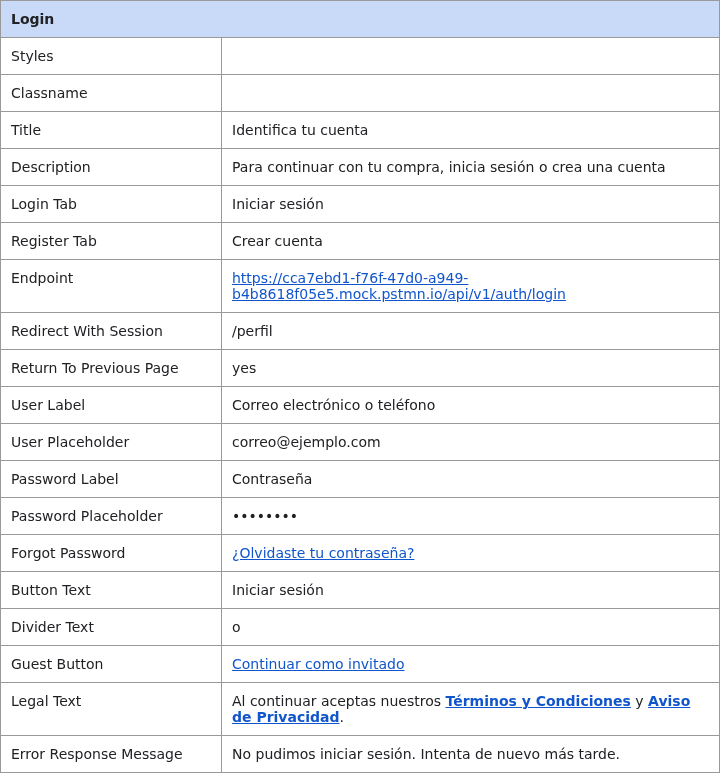
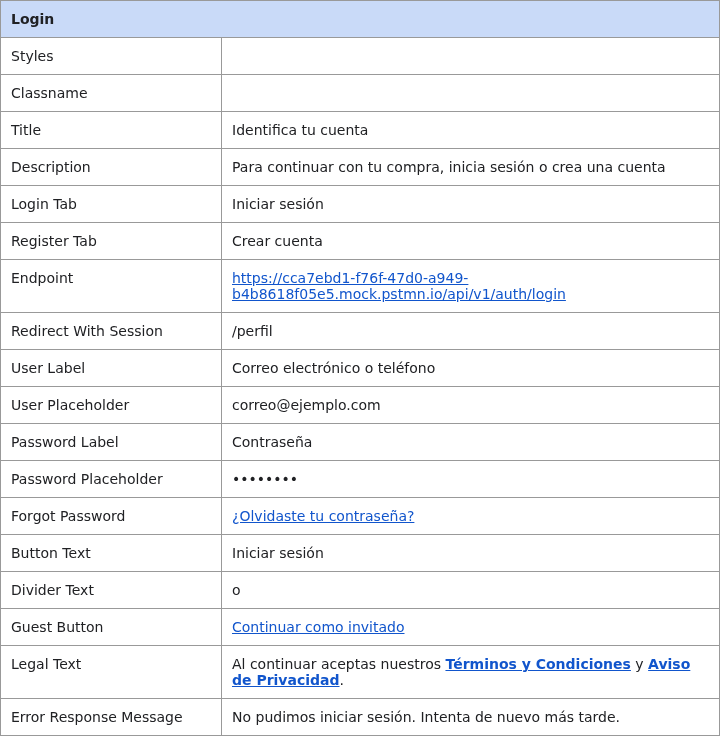
refactor(session): nothing in the URL (no ?redirect=)
Protected pages go to their Metadata "Redirect With Session" path as
authored, or to the home page (/) when the row is missing or empty.
Removed REDIRECT_PARAM and getReturnPath(); the login drops Return To
Previous Page and always goes to its own Redirect With Session (guest: its
link; no row: step mode); the example login link is used as authored.
login.docx, READMEs and guide 08 updated.

Changed region(s): [[0.0, 0.0, 1.0, 1.0], [0.0306, 0.9375, 0.2444, 1.0]]

diff --git a/blocks/login/login.js b/blocks/login/login.js
@@ -6,7 +6,7 @@
  * table (page /login).
  *
  * Authored rows (all optional): Styles, Classname, Session, Title, Description, Login Tab,
- * Register Tab, Endpoint, Redirect With Session, Return To Previous Page, User Label,
+ * Register Tab, Endpoint, Redirect With Session, User Label,
  * User Placeholder, Password Label, Password Placeholder, Forgot Password (link), Button Text,
  * Divider Text, Guest Button (text, optional link), Legal Text (text with links),
  * Error Response Message.
@@ -23,10 +23,9 @@
  *     only to signed-out visitors (Session signed-out, unless the table has its own Session
  *     row) and hides itself after a login or "Continuar como invitado": the step is done
  *     (SESSION_CHANGE_EVENT, for the checkout steps).
- *   - Return To Previous Page: yes → a valid ?redirect= of the URL wins over Redirect With
- *     Session (pages that sent the visitor here come back). Without it ?redirect= is ignored.
- *   - Guest Button: continueAsGuest(), then ?redirect= (with Return To Previous Page), then its
- *     link; without any of them it stays (step mode). Without link it is a button.
+ *   - Guest Button: continueAsGuest(), then its link; without link it stays (step mode: the
+ *     step is done) and is painted as a button.
+ *   Nothing is read from or added to the URL.
  *   - Error Response Message: shown when the service fails without a message of its own
  *     (default errorResponseMessage of scripts/foundations/messages.js, also when empty).
  *
@@ -67,7 +66,7 @@ import applyBlockOptions from '../../scripts/foundations/block-options.js';
 import { readTableCell, getSafeHref } from '../../scripts/foundations/block-utils.js';
 import MESSAGES from '../../scripts/foundations/messages.js';
 import {
-  SESSION_STATES, continueAsGuest, getAccessState, getReturnPath, isEditorPreview, navigateTo,
+  SESSION_STATES, continueAsGuest, getAccessState, isEditorPreview, navigateTo,
   setSessionVisibility, signIn, toSitePath,
 } from '../../scripts/foundations/session.js';
 import { post, REQUEST_TYPE } from '../../scripts/api/http-client.js';
@@ -91,8 +90,6 @@ const SEND_FORM_CREDENTIALS = false;
 const FIXED_CREDENTIALS = { emailOrPhone: 'cliente@ejemplo.com', password: 'Password123' };
 // form fields, named as the service names them (errors[].field)
 const FORM_FIELDS = ['emailOrPhone', 'password'];
-// values of Return To Previous Page that mean "yes"
-const YES_VALUE = /^(yes|si|sí|true)$/i;
 
 // accessible names when the table has no label (only read by screen readers)
 const LABELS = {
@@ -161,7 +158,6 @@ function readLoginSettings(block) {
     endpoint: endpointCell.href || endpointCell.text,
     // '' = step mode (no redirect)
     redirectWithSession: toSitePath(redirectCell.href || redirectCell.text),
-    returnToPreviousPage: YES_VALUE.test(readCellText('return to previous page')),
     errorResponseMessage: readCellText('error response message') || MESSAGES.errorResponseMessage,
     legalCell: findValueCell(block, 'legal text'),
   };
@@ -373,24 +369,23 @@ function readLoginErrors(error, fallbackMessage) {
 }
 
 /**
- * Where a signed-in visitor goes: the valid ?redirect= (only with Return To Previous Page),
- * else Redirect With Session; '' = step mode (stay, the block hides itself).
+ * Where a signed-in visitor goes: Redirect With Session; '' = step mode (stay, the block hides
+ * itself).
  * @param {Object} settings readLoginSettings() result
  * @returns {string}
  */
 function getLoginDestination(settings) {
-  return (settings.returnToPreviousPage && getReturnPath()) || settings.redirectWithSession;
+  return settings.redirectWithSession;
 }
 
 /**
- * Where a guest goes: the valid ?redirect= (only with Return To Previous Page), else the link
- * of Guest Button; '' = stay (step mode). Redirect With Session is not used: it is for
- * visitors with a session.
+ * Where a guest goes: the link of Guest Button; '' = stay (step mode). Redirect With Session is
+ * not used: it is for visitors with a session.
  * @param {Object} settings readLoginSettings() result
  * @returns {string}
  */
 function getGuestDestination(settings) {
-  return (settings.returnToPreviousPage && getReturnPath()) || toSitePath(settings.guest.href);
+  return toSitePath(settings.guest.href);
 }
 
 /**

diff --git a/scripts/foundations/session.js b/scripts/foundations/session.js
@@ -25,8 +25,8 @@
  *   | Redirect With Session | /login |   where a visitor without session goes (default: home /)
  *   guardPage()               reads both rows; called by scripts.js before painting
  *   requireSession(options)   the same rule for a block that must redirect by itself
- *   getSessionRedirectUrl()   /login?redirect=%2Fcurrent-page
- *   getReturnPath()           the ?redirect= of the URL, only if it is a path of this site
+ *   getSessionRedirectUrl()   the Redirect With Session path as authored, or / (nothing is
+ *                             added to the URL)
  *   navigateTo(path)          goes to a page (use it after signIn/continueAsGuest: the page
  *                             does not reload over the navigation)
  *
@@ -68,8 +68,6 @@ export const PAGE_SESSION_REQUIRED = 'true';
 // where a protected page sends a visitor without session, when its Metadata has no
 // "Redirect With Session" row: the home page
 export const DEFAULT_SESSION_REDIRECT = '/';
-// URL parameter with the page to come back to (/login?redirect=/perfil)
-export const REDIRECT_PARAM = 'redirect';
 // editing tool preview: no redirects, everything visible
 const EDITOR_PREVIEW_HOSTS = /^preview-aemcoder\.adobe\.io$/;
 // class on <html> for each state (sessions.css); editor = show everything
@@ -272,30 +270,16 @@ export function toSitePath(path) {
 }
 
 /**
- * The page to come back to (?redirect= of the URL), only when it is a path of this site.
- * @returns {string} '' when there is none or it is not valid
- */
-export function getReturnPath() {
-  return toSitePath(new URLSearchParams(window.location.search).get(REDIRECT_PARAM));
-}
-
-/**
  * Where to send who cannot open the current page: redirectTo, else the "Redirect With Session"
- * Metadata row, with ?redirect= set to the page to come back to (the login uses it). Without
- * any of them: DEFAULT_SESSION_REDIRECT, the home page, as is.
+ * Metadata row (a path of this site, as authored: nothing is added to the URL). Missing or
+ * empty: DEFAULT_SESSION_REDIRECT, the home page.
  * @param {Object} [options]
  * @param {string} [options.redirectTo] Page to go to (a block that redirects by itself)
- * @param {string} [options.returnTo] Page to come back to (default: the current one)
- * @returns {string} e.g. /login?redirect=%2Fperfil, or /
+ * @returns {string} e.g. /login, or /
  */
-export function getSessionRedirectUrl({ redirectTo, returnTo } = {}) {
-  const configured = toSitePath(redirectTo) || toSitePath(readPageMetadata('redirect-with-session'));
-  if (!configured) return DEFAULT_SESSION_REDIRECT;
-  const current = `${window.location.pathname}${window.location.search}${window.location.hash}`;
-  const target = new URL(configured, window.location.origin);
-  const back = toSitePath(returnTo ?? current);
-  if (back) target.searchParams.set(REDIRECT_PARAM, back);
-  return `${target.pathname}${target.search}`;
+export function getSessionRedirectUrl({ redirectTo } = {}) {
+  return toSitePath(redirectTo) || toSitePath(readPageMetadata('redirect-with-session'))
+    || DEFAULT_SESSION_REDIRECT;
 }
 
 /**

diff --git a/blocks/block-session-example/block-session-example.js b/blocks/block-session-example/block-session-example.js
@@ -13,7 +13,7 @@
  *   3. Items by session, the generic way of ANY block: "Item | text | signed-in" (the state in
  *      the LAST cell). applySessionRows() (block-options.js) removes the rows of other states
  *      before this block reads its table, and the page reloads when the session changes.
- *   4. Actions: Iniciar sesión (link to the login with ?redirect= back here), Continuar como
+ *   4. Actions: Iniciar sesión (link to the login, as authored), Continuar como
  *      invitado (continueAsGuest) and Cerrar sesión (signOut), each one only for its state.
  *   5. Private call: with Private Endpoint and a session, post(…, REQUEST_TYPE.PRIVATE) sends
  *      the Bearer token and shows the answer of the service.
@@ -44,7 +44,7 @@ import applyBlockOptions from '../../scripts/foundations/block-options.js';
 import { readTableCell } from '../../scripts/foundations/block-utils.js';
 import MESSAGES from '../../scripts/foundations/messages.js';
 import {
-  REDIRECT_PARAM, SESSION_STATES, continueAsGuest, parseSessionStates, renderForSession,
+  SESSION_STATES, continueAsGuest, parseSessionStates, renderForSession,
   setSessionVisibility, signOut, toSitePath,
 } from '../../scripts/foundations/session.js';
 import { post, REQUEST_TYPE } from '../../scripts/api/http-client.js';
@@ -124,17 +124,6 @@ function readExampleSettings(block) {
 }
 
 /**
- * Link to the login that comes back to this page after signing in (?redirect=).
- * @param {string} loginPath e.g. /login
- * @returns {string}
- */
-function buildLoginHref(loginPath) {
-  const url = new URL(loginPath, window.location.origin);
-  url.searchParams.set(REDIRECT_PARAM, `${window.location.pathname}${window.location.search}`);
-  return `${url.pathname}${url.search}`;
-}
-
-/**
  * Badge with the name of a state (its colour comes from the CSS modifier).
  * @param {string} state One of SESSION_STATES
  * @returns {Element}
@@ -170,7 +159,7 @@ function buildExampleActions(settings) {
 
   if (login.text && login.href) {
     const link = createElementWithClass('a', 'block-session-example-button block-session-example-button-primary', login.text);
-    link.href = buildLoginHref(login.href);
+    link.href = login.href;
     actions.append(setSessionVisibility(link, [SESSION_STATES.SIGNED_OUT]));
   }
   if (texts.guestButton) {

diff --git a/blocks/login/README.md b/blocks/login/README.md
@@ -160,15 +160,14 @@ se pinta (en `Redirect With Session`, vacía = modo paso).
       `https://cca7ebd1-f76f-47d0-a949-b4b8618f05e5.mock.pstmn.io/api/v1/auth/login`
     - **Por defecto:** ninguno. Sin `Endpoint`, el botón no envía nada
 
-7. **`Redirect With Session`** / **`Return To Previous Page`**
-    - **Tipo:** Ruta del sitio (`/perfil`) / `yes`
+7. **`Redirect With Session`**
+    - **Tipo:** Ruta del sitio (`/perfil`)
     - **Descripción:** **Con ruta:** siempre que haya sesión va ahí, sin mostrar el formulario (al
       abrir la página ya con sesión o justo después de iniciar sesión). **Vacía o sin la fila: modo
       paso**: no redirige; el login solo se ve sin sesión y, al iniciar sesión o entrar como
-      invitado, se oculta solo y el paso queda cumplido (para los pasos de compra).
-      `Return To Previous Page` = `yes`: si la URL trae `?redirect=` de una página del sitio, regresa
-      ahí antes que a `Redirect With Session`
-    - **Por defecto:** ninguno (modo paso) / sin la fila se ignora `?redirect=`
+      invitado, se oculta solo y el paso queda cumplido (para los pasos de compra). No se lee ni se
+      agrega nada en la URL
+    - **Por defecto:** ninguno (modo paso)
     - El `nextStep.route` del servicio ya no decide a dónde ir: lo decide la tabla
 
 8. **`User Label`** / **`User Placeholder`**
@@ -202,8 +201,8 @@ se pinta (en `Redirect With Session`, vacía = modo paso).
 13. **`Guest Button`**
     - **Tipo:** Texto, con enlace opcional
     - **Descripción:** "Continuar como invitado": activa el modo invitado (`continueAsGuest()`) y
-      luego va al `?redirect=` (con `Return To Previous Page`) o a su enlace. Sin ninguno de los dos
-      se queda (modo paso: el paso queda cumplido). Sin enlace se pinta como botón
+      luego va a su enlace. Sin enlace se queda (modo paso: el paso queda cumplido) y se pinta como
+      botón
     - **Por defecto:** ninguno. Sin texto, no se pinta
 
 14. **`Legal Text`**
@@ -226,8 +225,8 @@ La tabla en Drive permite al autor configurar:
 - El **título**, la **descripción** y los **tabs**
 - Las **etiquetas** y **textos de ejemplo** de los campos
 - Los **enlaces** de contraseña olvidada, invitado y textos legales
-- El **Endpoint** del servicio, a dónde ir con sesión (**Redirect With Session**,
-  **Return To Previous Page**) y el **mensaje de error** genérico
+- El **Endpoint** del servicio, a dónde ir con sesión (**Redirect With Session**) y el **mensaje
+  de error** genérico
 - **Estilos** y **clases** extra del bloque
 
 ![Vista Tabla en Drive](/documentation/readme/login/drive-table.png)
@@ -263,7 +262,7 @@ Con `true`, `readLoginCredentials` toma `emailOrPhone` (sin espacios al inicio y
 
 | Respuesta | Qué hace el bloque |
 |---|---|
-| **200** `{ status, data: { user, accessToken, tokenType, expiresIn, sessionId, nextStep } }` | Guarda la sesión (`signIn`); con `Redirect With Session` muestra `status.message` en verde y va al `?redirect=` (si `Return To Previous Page`) o a esa ruta. En modo paso no navega: el login se oculta |
+| **200** `{ status, data: { user, accessToken, tokenType, expiresIn, sessionId, nextStep } }` | Guarda la sesión (`signIn`); con `Redirect With Session` muestra `status.message` en verde y va a esa ruta. En modo paso no navega: el login se oculta |
 | **400** `{ status, errors: [{ field, message }] }` | `status.message` arriba y cada `errors[].message` debajo de su campo (`emailOrPhone`, `password`); al escribir en el campo se quita su mensaje |
 | **401** `{ status, errors: [{ field: "credentials", message }] }` | `status.message` + los mensajes sin campo, arriba ("El correo/teléfono o la contraseña son incorrectos. Verifica tus datos e inténtalo nuevamente.") |
 | **500** `{ status }` | `status.message` arriba ("Ocurrió un error al iniciar sesión.") |
@@ -285,7 +284,6 @@ renovar el token.
 | Error del servicio | El mensaje sale arriba y el cursor va al primer campo con error |
 | Sin `Endpoint` | El botón no envía nada |
 | Abre la página ya con sesión (con `Redirect With Session`) | Va directo a esa ruta, sin ver el formulario |
-| `?redirect=/perfil` en la URL y `Return To Previous Page: yes` | Después de iniciar sesión regresa a `/perfil` (solo rutas del sitio; `//otro.com` se ignora) |
 | Modo paso (sin `Redirect With Session`) | Sin sesión se ve el login; con sesión o como invitado se oculta y el paso queda cumplido, sin recargar |
 | Panel de edición | Se ve el formulario y no redirige, para poder editarlo |
 | Falta `Login Tab` o `Register Tab` | Sin tabs, solo el formulario |
@@ -313,7 +311,7 @@ Móvil:
 - `scripts/foundations/block-options.js` – Filas `Styles` y `Classname`
 - `scripts/foundations/block-utils.js` – `readTableCell` y `getSafeHref`
 - `scripts/foundations/messages.js` – `errorResponseMessage` por defecto
-- `scripts/foundations/session.js` – `signIn`, `continueAsGuest`, `getReturnPath`, `toSitePath` y
+- `scripts/foundations/session.js` – `signIn`, `continueAsGuest`, `navigateTo`, `toSitePath` y
   `setSessionVisibility` (modo paso)
 - `styles/foundations/sessions.css` – Oculta el login en modo paso cuando ya hay sesión
 - `scripts/api/http-client.js` – `post` con `REQUEST_TYPE.PUBLIC`

diff --git a/documentation/08-sesiones.md b/documentation/08-sesiones.md
@@ -62,7 +62,7 @@ Se pueden combinar con coma: `signed-in, guest` = con sesión **o** invitado. Va
 
 | `Session` | `Redirect With Session` | Sin sesión | Con sesión |
 |---|---|---|---|
-| `true` | `/login` | Va a `/login?redirect=%2Fperfil` (el login regresa aquí) | Se ve |
+| `true` | `/login` | Va a `/login`, tal cual (nada se agrega a la URL) | Se ve |
 | `true` | sin la fila o vacía | Va al home `/` | Se ve |
 | `false`, vacía o sin la fila | — | Se ve (página pública) | Se ve |
 
@@ -143,7 +143,6 @@ O sin JS, directo con clases:
 |---|---|---|
 | `Redirect With Session` | `/perfil` | Con sesión, siempre va ahí (sin mostrar el formulario) |
 | | vacía o sin la fila | **Modo paso**: no redirige; el login solo se ve sin sesión y se oculta al iniciar sesión o entrar como invitado |
-| `Return To Previous Page` | `yes` | Un `?redirect=` válido gana a `Redirect With Session` |
 
 Cada página tiene su propia tabla Login: en `/login` va `Redirect With Session` = `/perfil`; en el
 paso **Datos** de la compra va sin esa fila, y el login solo se oculta.
@@ -157,7 +156,7 @@ paso **Datos** de la compra va sin esa fila, y el login solo se oculta.
 | 1 | `getSession()` / `isSignedIn()` / `getAccessToken()` | Usuario, ¿hay sesión?, `'Bearer …'` |
 | 2 | `guardPage()` | Regla de la página (la llama `scripts.js`) |
 | 2 | `requireSession({ allowGuest, redirectTo })` | Un bloque que debe redirigir por sí mismo |
-| 2 | `getSessionRedirectUrl()` / `getReturnPath()` / `toSitePath()` | URLs de redirección validadas (solo rutas del sitio) |
+| 2 | `getSessionRedirectUrl()` / `toSitePath()` | Ruta de `Redirect With Session` (o `/`) y rutas validadas (solo del sitio) |
 | 2 | `navigateTo(path, { replace })` | Ir a otra página sin que la recarga de las filas la cancele |
 | 3 | `applySessionRows(block)` | Filas con el estado en la última celda (la llama `applyBlockOptions`) |
 | 3 | `setSessionVisibility(el, states)` / `parseSessionStates(text)` | Mostrar u ocultar |
@@ -168,7 +167,7 @@ paso **Datos** de la compra va sin esa fila, y el login solo se oculta.
 | # | Caso | Resultado |
 |---|---|---|
 | 1 | Página pública sin reglas | Igual que antes |
-| 2 | `/perfil` (`Session: true`, `Redirect With Session: /login`) sin sesión | Va a `/login?redirect=%2Fperfil` |
+| 2 | `/perfil` (`Session: true`, `Redirect With Session: /login`) sin sesión | Va a `/login` (sin `?redirect=`) |
 | 2b | `Session: true` sin `Redirect With Session` | Va al home `/` |
 | 2c | `Session: false`, vacía o sin la fila | La página se ve |
 | 3 | Login correcto desde ahí | Regresa a `/perfil` |
@@ -179,7 +178,7 @@ paso **Datos** de la compra va sin esa fila, y el login solo se oculta.
 | 7 | Cerrar sesión en una página `Session: true` | Redirige |
 | 8 | `/login` ya con sesión | Va a `Redirect With Session` sin mostrar el formulario |
 | 9 | Login en modo paso | Al iniciar sesión o como invitado se oculta y aparece lo `signed-in, guest`, sin recargar |
-| 10 | `?redirect=//otro.com` | Se ignora |
+| 10 | `Redirect With Session` = `//otro.com` o `javascript:` | Se ignora: va al home |
 | 11 | Sesión vencida | Cuenta como `signed-out` |
 | 12 | Llamada privada sin sesión | No llama al servicio y redirige al login |
 | 13 | Llamada privada con sesión | Header `Authorization: Bearer …` y `security.auth.value` iguales |
@@ -190,8 +189,8 @@ paso **Datos** de la compra va sin esa fila, y el login solo se oculta.
 - **Ocultar no es proteger.** El HTML y el JavaScript son públicos: lo oculto sigue en la página.
   Los datos privados solo deben llegar del servicio con `REQUEST_TYPE.PRIVATE`.
 - El token **nunca** va en el código ni en Drive: sale de `getAccessToken()` después del login.
-- `?redirect=` y las rutas de la tabla solo aceptan **rutas del sitio** (nada de `//otro.com` ni
-  `javascript:`).
+- Nada viaja por la URL. Las rutas de las tablas solo aceptan **rutas del sitio** (nada de
+  `//otro.com` ni `javascript:`).
 - La sesión vive en `sessionStorage` (se borra al cerrar la pestaña) y vence con `expiresIn`.
 - Nunca se escribe la sesión en `console`.
 

diff --git a/scripts/foundations/README.md b/scripts/foundations/README.md
@@ -10,7 +10,7 @@ a otro sitio de AEM Edge Delivery Services. Son el par de `styles/foundations/` 
 | `messages.js` | Mensajes genéricos con valor por defecto (alerta, lista vacía, foto que falla) y el formato de números / precios | `MESSAGES` (default), `LOCALE`, `CURRENCY` |
 | `toast.js` | Alerta flotante arriba a la derecha, apilable, que se cierra sola | `showToast(message, { duration, variant })`, `TOAST_VARIANTS` |
 | `page-context.js` | Datos que un bloque obtiene al cargar y otro bloque de la misma página necesita, sin importarse entre ellos (hoy: el nombre de la página actual) | `setCurrentPageName(name)`, `getCurrentPageName()`, `CURRENT_PAGE_NAME_EVENT` |
-| `session.js` | **Todo lo de sesión**, en 3 partes: 1) datos (sesión, invitado, estado en `<html>`); 2) páginas que piden sesión (Metadata `Session: true` y `Redirect With Session`, por defecto el home) y redirecciones; 3) mostrar u ocultar y pintar según la sesión. Va con `styles/foundations/sessions.css`. Guía: `documentation/08-sesiones.md` | Parte 1: `signIn`, `continueAsGuest`, `signOut`, `getSession`, `isSignedIn`, `getAccessToken`, `getAccessState`, `SESSION_STATES`, `SESSION_CHANGE_EVENT` · Parte 2: `guardPage`, `requireSession`, `getSessionRedirectUrl`, `getReturnPath`, `toSitePath`, `navigateTo`, `isEditorPreview` · Parte 3: `applySessionRows` (filas con el estado en la última celda), `setSessionVisibility`, `parseSessionStates`, `renderForSession` |
+| `session.js` | **Todo lo de sesión**, en 3 partes: 1) datos (sesión, invitado, estado en `<html>`); 2) páginas que piden sesión (Metadata `Session: true` y `Redirect With Session`, por defecto el home) y redirecciones; 3) mostrar u ocultar y pintar según la sesión. Va con `styles/foundations/sessions.css`. Guía: `documentation/08-sesiones.md` | Parte 1: `signIn`, `continueAsGuest`, `signOut`, `getSession`, `isSignedIn`, `getAccessToken`, `getAccessState`, `SESSION_STATES`, `SESSION_CHANGE_EVENT` · Parte 2: `guardPage`, `requireSession`, `getSessionRedirectUrl`, `toSitePath`, `navigateTo`, `isEditorPreview` · Parte 3: `applySessionRows` (filas con el estado en la última celda), `setSessionVisibility`, `parseSessionStates`, `renderForSession` |
 
 ## Qué necesita cada uno
 

diff --git a/blocks/block-session-example/README.md b/blocks/block-session-example/README.md
@@ -130,8 +130,8 @@ contenido no tienen texto por defecto: sin texto, esa parte no se pinta.
 
 6. **`Login Link`**
     - **Tipo:** Enlace (texto y link)
-    - **Descripción:** Botón "Iniciar sesión" (solo sin sesión); agrega `?redirect=` para volver a
-      esta página después del login
+    - **Descripción:** Botón "Iniciar sesión" (solo sin sesión); va a su enlace tal cual, sin nada en
+      la URL
 
 7. **`Guest Button Text`** / **`Sign Out Text`**
     - **Tipo:** Texto
